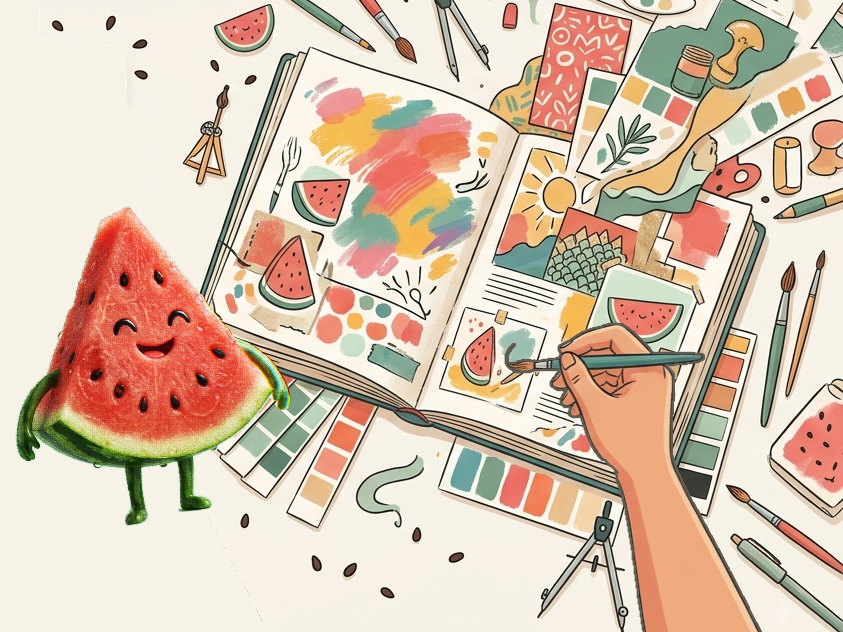
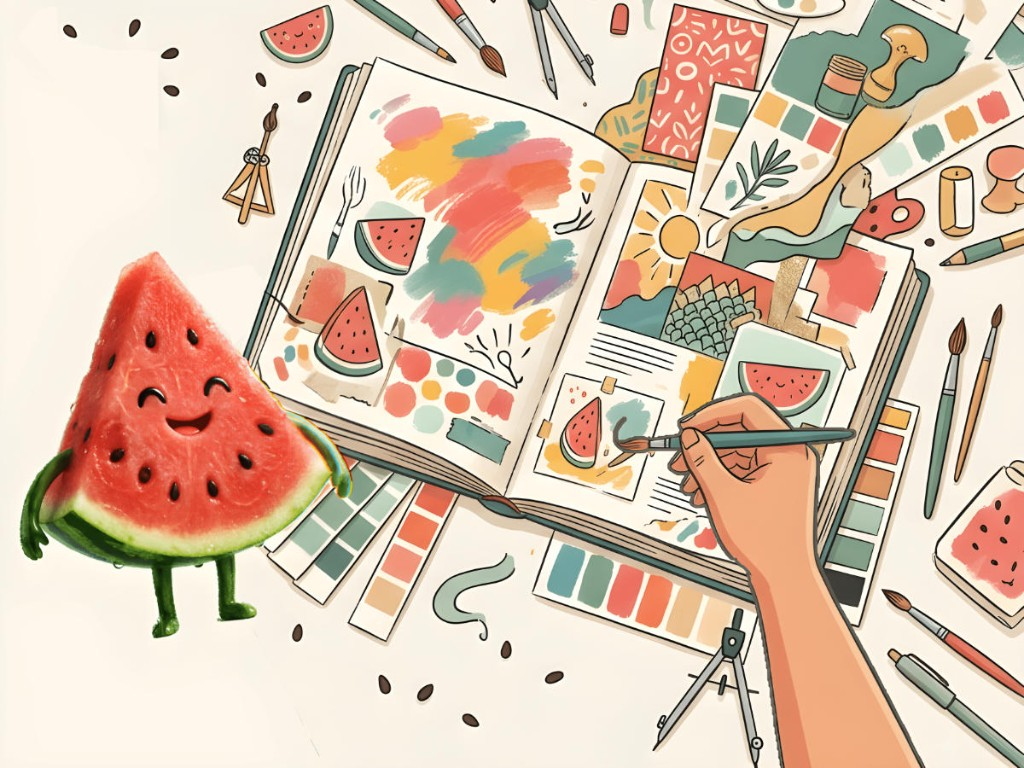
Hero accueil : nouveau visuel, titre sur deux lignes et blocs verts séparés en inline-block.

diff --git a/apps/mobile/components/landing/LandingHero.tsx b/apps/mobile/components/landing/LandingHero.tsx
@@ -38,7 +38,7 @@ export function LandingHero() {
         importantForAccessibility="no"
         imageStyle={
           Platform.OS === "web"
-            ? ({ objectPosition: "center 20%" } as const)
+            ? ({ objectPosition: "center center" } as const)
             : undefined
         }
         style={{ width: "100%", minHeight: heroMinHeight }}
@@ -59,22 +59,26 @@ export function LandingHero() {
             ))}
           </View>
 
-          <View className="self-center rounded-2xl bg-sage-600 px-5 py-5 md:px-8 md:py-6 max-w-2xl mb-8">
-            <SemanticWeb
-              tag="h1"
-              className="font-display text-3xl md:text-4xl lg:text-[2.65rem] leading-tight text-white mb-4 text-center"
-            >
-              Libérez Votre Créativité, Un Exercice à la Fois
-            </SemanticWeb>
+          <View className="items-center gap-3 mb-8 w-full px-1">
+            <View className="landing-hero-inline-block self-center rounded-xl bg-sage-600 px-4 py-3 md:px-6 md:py-4">
+              <SemanticWeb
+                tag="h1"
+                className="font-display text-3xl md:text-4xl lg:text-[2.65rem] leading-tight text-white text-center whitespace-pre-line"
+              >
+                {`Libérez Votre Créativité,\nUn Exercice à la Fois`}
+              </SemanticWeb>
+            </View>
 
-            <SemanticWeb
-              tag="p"
-              className="text-white/95 text-base md:text-lg leading-8 text-center"
-            >
-              Pastek Art vous invite à explorer le dessin, la peinture et le collage comme un
-              jeu bienveillant — consignes guidées, miroir créatif, et rien de clinique. Votre
-              clé IA reste chez vous (BYOK) ; vos traces restent locales.
-            </SemanticWeb>
+            <View className="landing-hero-inline-block self-center rounded-xl bg-sage-600 px-4 py-3 md:px-6 md:py-4">
+              <SemanticWeb
+                tag="p"
+                className="text-white text-base md:text-lg leading-8 text-center"
+              >
+                Pastek Art vous invite à explorer le dessin, la peinture et le collage comme un
+                jeu bienveillant — consignes guidées, miroir créatif, et rien de clinique. Votre
+                clé IA reste chez vous (BYOK) ; vos traces restent locales.
+              </SemanticWeb>
+            </View>
           </View>
 
           <View className="flex-row flex-wrap items-center justify-center gap-3 mb-8">

diff --git a/apps/mobile/global.css b/apps/mobile/global.css
@@ -39,6 +39,13 @@ html.dark body {
   background-color: #2a3f35;
 }
 
+/* Hero accueil — blocs texte en inline-block (web) */
+.landing-hero-inline-block {
+  display: inline-block;
+  max-width: 42rem;
+  width: fit-content;
+}
+
 /* Landing header — nav desktop sur une seule ligne (web) */
 @media (min-width: 768px) {
   .landing-desktop-nav {
